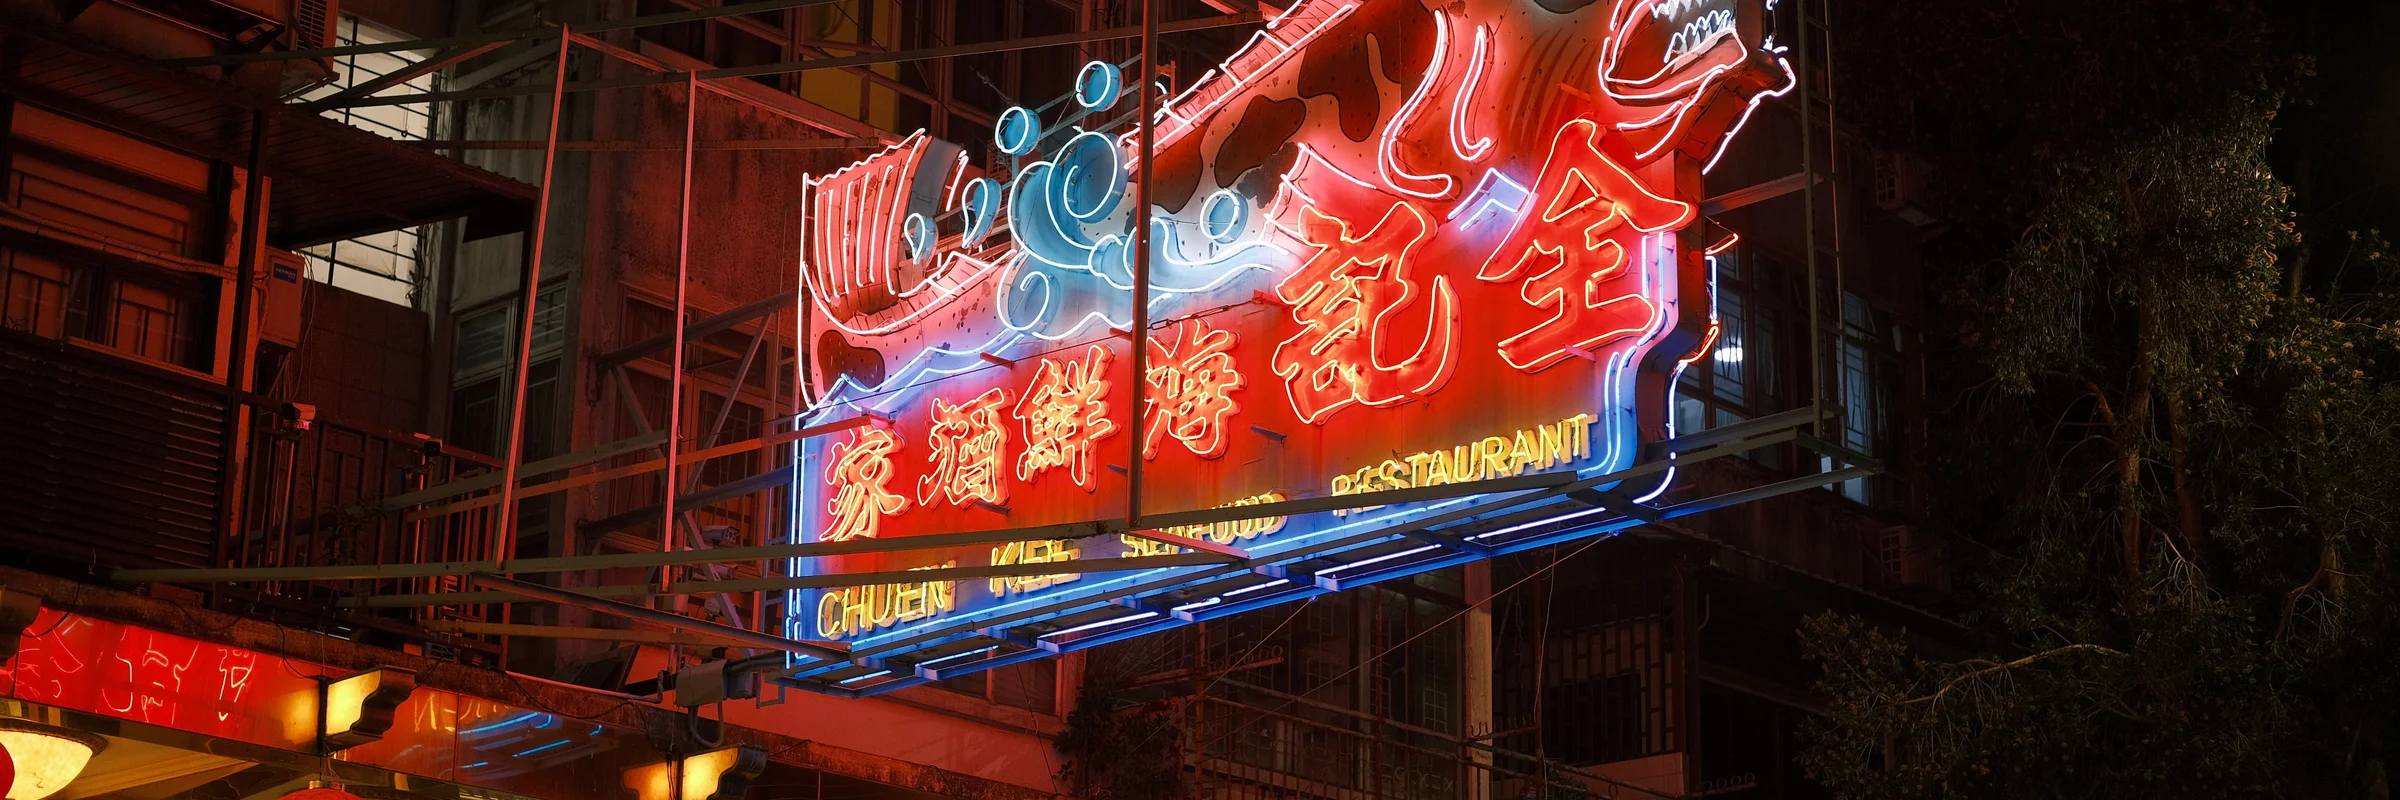
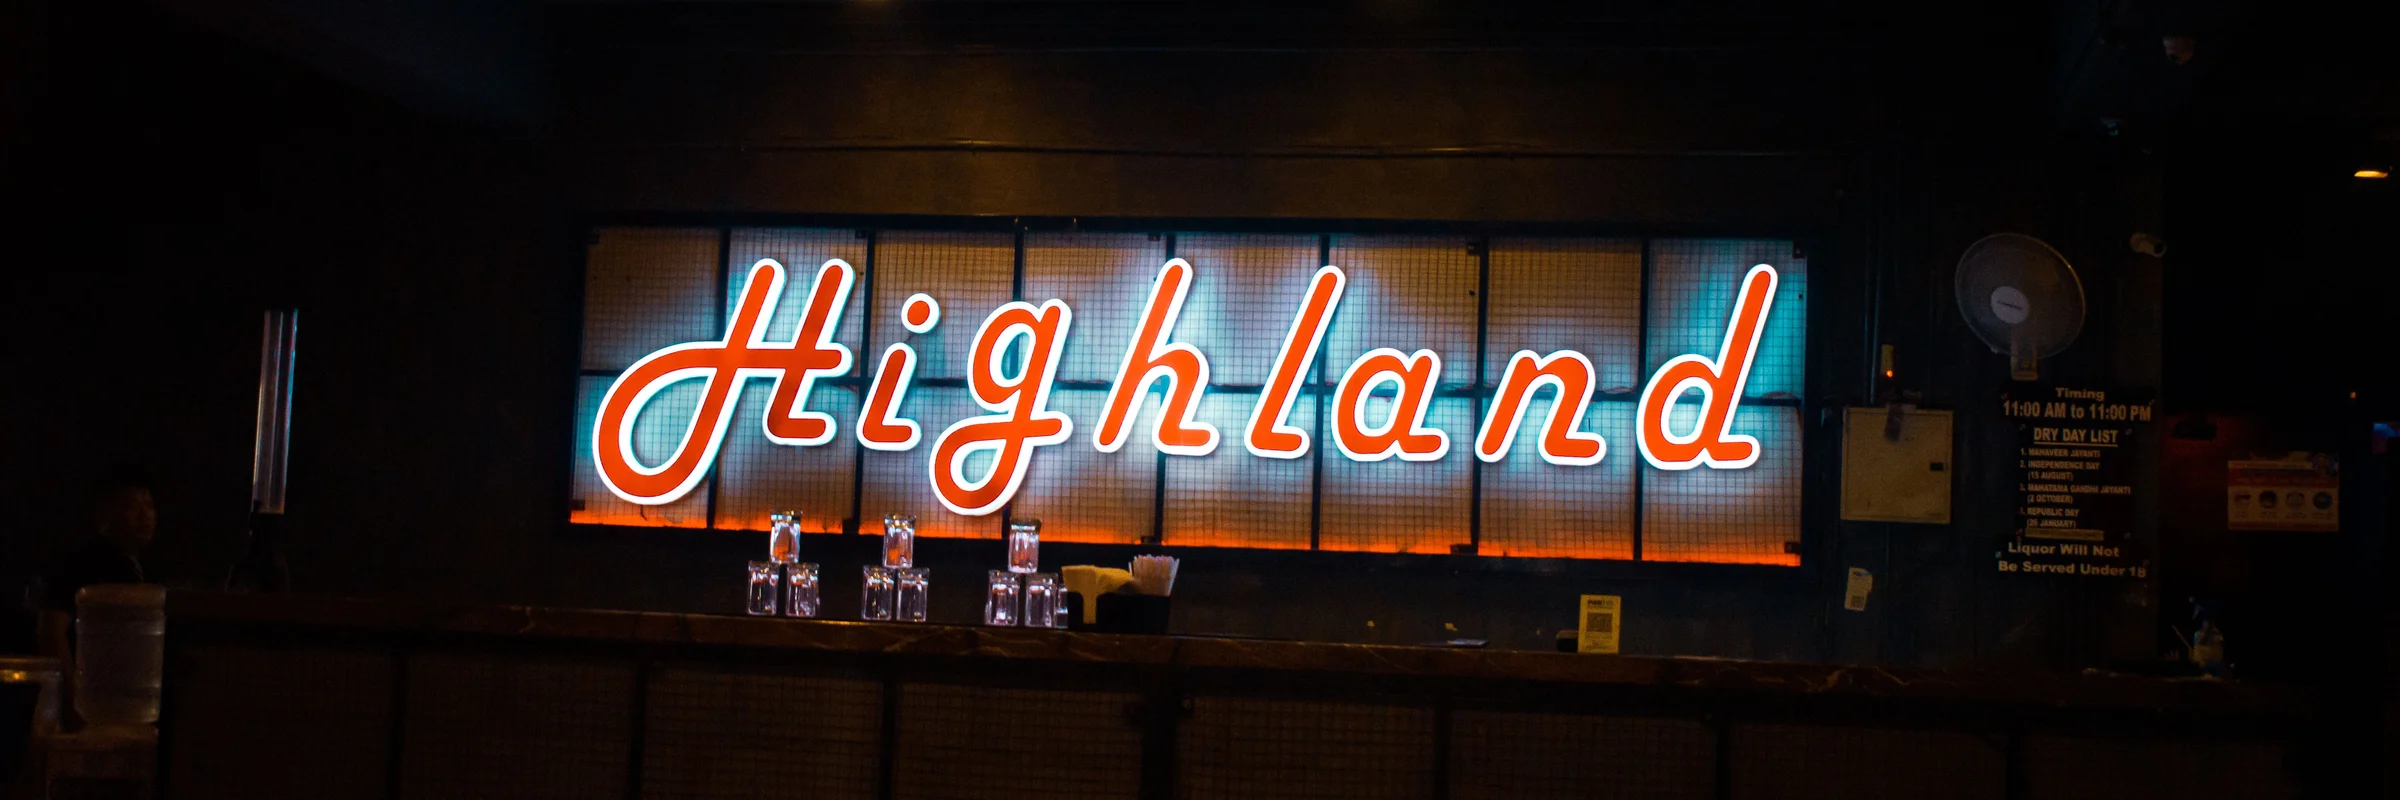
:zap: Lazy load cover images via native loading attribute #18098

diff --git a/app/src/assets/scss/component/_card.scss b/app/src/assets/scss/component/_card.scss
@@ -100,8 +100,13 @@
   &__card {
     aspect-ratio: 3 / 1;
     min-height: 100px;
-    background-size: cover;
-    background-position: center;
+
+    img {
+      width: 100%;
+      height: 100%;
+      object-fit: cover;
+      display: block;
+    }
 
     &:hover {
       opacity: 0.86;

diff --git a/app/src/protyle/header/Background.ts b/app/src/protyle/header/Background.ts
@@ -311,7 +311,7 @@ export class Background {
                             const covers = category === "all" ? allCovers : (coversByCategory.get(category) || []);
                             return covers.map(c => {
                                 const url = `/appearance/covers/${c.file}`;
-                                return `<div class="b3-card b3-cover__card" data-src="${url}" style="background-image:url('${url}');background-size:cover;background-position:center"></div>`;
+                                return `<div class="b3-card b3-cover__card" data-src="${url}"><img src="${url}" loading="lazy"></div>`;
                             }).join("");
                         };
 